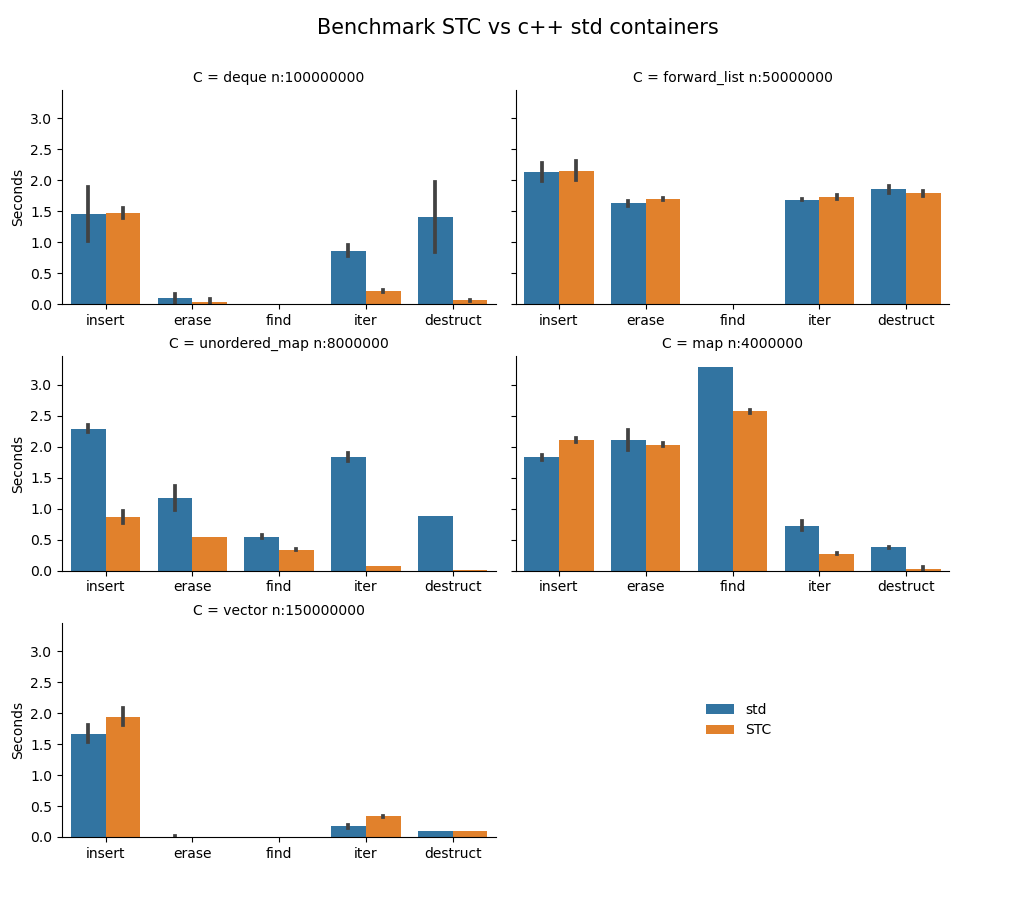
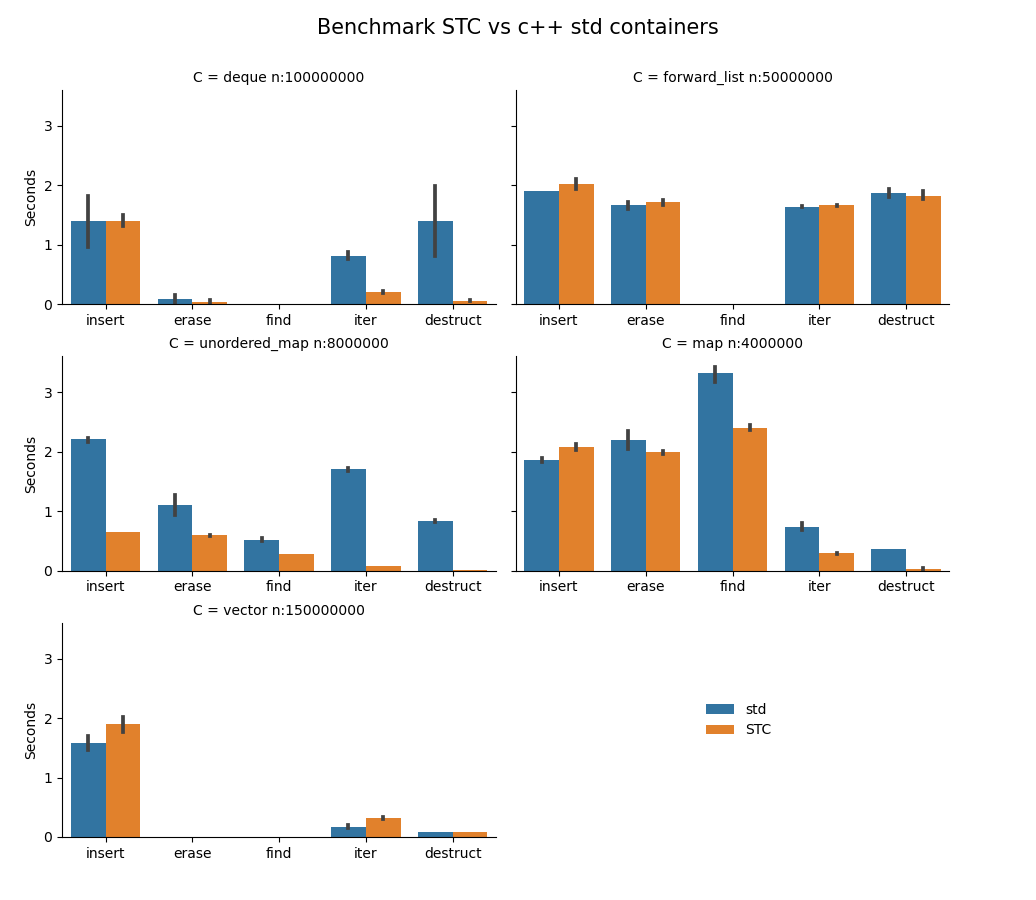
Replaced default hash for cmap.

diff --git a/stc/cmap.h b/stc/cmap.h
@@ -136,6 +136,9 @@ typedef struct {size_t idx; uint32_t hx;} chash_bucket_t;
 #define MAP_ONLY_cmap(...) __VA_ARGS__
 #define KEY_REF_cset(vp)   (vp)
 #define KEY_REF_cmap(vp)   (&(vp)->first)
+#ifndef CMAP_SIZE_T
+#define CMAP_SIZE_T uint32_t
+#endif
 
 #define _using_CHASH(X, C, Key, Mapped, keyEqualsRaw, keyHashRaw, mappedDel, mappedFromRaw, \
                         keyDel, keyFromRaw, keyToRaw, RawKey, mappedToRaw, RawMapped) \
@@ -143,6 +146,7 @@ typedef struct {size_t idx; uint32_t hx;} chash_bucket_t;
     typedef Mapped C##_##X##_mapped_t; \
     typedef RawKey C##_##X##_rawkey_t; \
     typedef RawMapped C##_##X##_rawmapped_t; \
+    typedef CMAP_SIZE_T C##_##X##_size_t; \
 \
     typedef SET_ONLY_##C( C##_##X##_key_t ) \
             MAP_ONLY_##C( struct {C##_##X##_key_t first; \
@@ -162,7 +166,7 @@ typedef struct {size_t idx; uint32_t hx;} chash_bucket_t;
     typedef struct { \
         C##_##X##_value_t* table; \
         uint8_t* _hashx; \
-        uint32_t size, bucket_count; \
+        C##_##X##_size_t size, bucket_count; \
         float min_load_factor; \
         float max_load_factor; \
     } C##_##X; \
@@ -300,12 +304,18 @@ typedef struct {size_t idx; uint32_t hx;} chash_bucket_t;
         C##_##X##_next(&pos); return pos; \
     } \
 \
-    STC_API uint32_t c_default_hash(const void *data, size_t len); \
-    STC_API uint32_t c_default_hash32(const void* data, size_t len); \
-\
     _implement_CHASH(X, C, Key, Mapped, keyEqualsRaw, keyHashRaw, mappedDel, keyDel, \
                         keyFromRaw, keyToRaw, RawKey, mappedFromRaw, mappedToRaw, RawMapped) \
     typedef C##_##X C##_##X##_t
+
+STC_API    uint64_t c_default_hash(const void *data, size_t len);
+STC_INLINE uint64_t c_default_hash32(const void* data, size_t len) {
+    return *(const uint32_t *)data * 2654435769u;
+}
+STC_INLINE uint64_t c_default_hash64(const void* data, size_t len) {
+    return *(const uint64_t *)data * 11400714819323198485ull;
+}
+#define cstr_hash_raw(p, ignored) c_default_hash(*(p), strlen(*(p)))
 
 /* -------------------------- IMPLEMENTATION ------------------------- */
 
@@ -443,17 +453,25 @@ enum {chash_HASH = 0x7f, chash_USED = 0x80};
             C##_##X##_reserve(self, k*1.2); \
     }
 
-STC_DEF uint32_t c_default_hash(const void *data, size_t len) {
-    const volatile uint16_t *key = (const uint16_t *) data;
-    uint64_t x = *key++ * 11400714819323198485llu;
-    while (len -= 2) x = (*key++ + x) * 11400714819323198485llu;
-    return (uint32_t) x;
-}
-STC_DEF uint32_t c_default_hash32(const void* data, size_t len) {
-    const volatile uint32_t *key = (const uint32_t *) data;
-    uint64_t x = *key++ * 2654435769ull;
-    while (len -= 4) x = (*key++ + x) * 2654435769ull;
-    return (uint32_t) x;
+STC_DEF uint64_t c_default_hash(const void *key, size_t len) {
+    const uint64_t m = 11400714819323198485ull; // 0xc6a4a7935bd1e995;
+    uint64_t k, h = m + len;
+    const unsigned char *p = (const uint8_t *) key,
+                        *end = p + (len & ~7ull);
+    for (; p != end; p += 8) {
+        memcpy(&k, p, 8);
+        h ^= k*m;
+    }
+    switch (len & 7) {
+        case 7: h ^= (uint64_t) p[6] << 48;
+        case 6: h ^= (uint64_t) p[5] << 40;
+        case 5: h ^= (uint64_t) p[4] << 32;
+        case 4: h ^= (uint64_t) p[3] << 24;
+        case 3: h ^= (uint64_t) p[2] << 16;
+        case 2: h ^= (uint64_t) p[1] << 8;
+        case 1: h ^= (uint64_t) p[0]; h *= m;
+    }
+    return h ^ (h >> 15);
 }
 
 #else

diff --git a/stc/csmap.h b/stc/csmap.h
@@ -127,15 +127,31 @@ int main(void) {
 #define CSMAP_SIZE_T uint32_t
 #endif
 
-#define _using_AATREE_types(X, C, Key, Mapped) \
+struct csmap_rep { size_t root, disp, head, size, cap; void* nodes[]; };
+#define _csmap_rep(self) c_container_of((self)->nodes, struct csmap_rep, nodes)
+
+#define _using_AATREE(X, C, Key, Mapped, keyCompareRaw, mappedDel, keyDel, \
+                         keyFromRaw, keyToRaw, RawKey, mappedFromRaw, mappedToRaw, RawMapped) \
     typedef Key C##_##X##_key_t; \
     typedef Mapped C##_##X##_mapped_t; \
+    typedef RawKey C##_##X##_rawkey_t; \
+    typedef RawMapped C##_##X##_rawmapped_t; \
     typedef CSMAP_SIZE_T C##_##X##_size_t; \
 \
     typedef SET_ONLY_##C( C##_##X##_key_t ) \
             MAP_ONLY_##C( struct {C##_##X##_key_t first; \
                                   C##_##X##_mapped_t second;} ) \
     C##_##X##_value_t; \
+\
+    typedef SET_ONLY_##C( C##_##X##_rawkey_t ) \
+            MAP_ONLY_##C( struct {C##_##X##_rawkey_t first; \
+                                  C##_##X##_rawmapped_t second;} ) \
+    C##_##X##_rawvalue_t; \
+\
+    typedef struct { \
+        C##_##X##_value_t *first; \
+        bool second; /* inserted */ \
+    } C##_##X##_result_t; \
 \
     typedef struct C##_##X##_node { \
         C##_##X##_size_t link[2]; \
@@ -144,34 +160,15 @@ int main(void) {
     } C##_##X##_node_t; \
 \
     typedef struct { \
+        C##_##X##_node_t* nodes; \
+    } C##_##X; \
+\
+    typedef struct { \
         C##_##X##_value_t *ref; \
         C##_##X##_node_t *_d; \
         int _top; \
         C##_##X##_size_t _tn, _st[48]; \
-    } C##_##X##_iter_t
-
-struct csmap_rep { size_t root, disp, head, size, cap; void* nodes[]; };
-#define _csmap_rep(self) c_container_of((self)->nodes, struct csmap_rep, nodes)
-
-#define _using_AATREE(X, C, Key, Mapped, keyCompareRaw, mappedDel, keyDel, \
-                         keyFromRaw, keyToRaw, RawKey, mappedFromRaw, mappedToRaw, RawMapped) \
-    _using_AATREE_types(X, C, Key, Mapped); \
-\
-    typedef struct { \
-        C##_##X##_node_t* nodes; \
-    } C##_##X; \
-\
-    typedef RawKey C##_##X##_rawkey_t; \
-    typedef RawMapped C##_##X##_rawmapped_t; \
-    typedef SET_ONLY_##C( C##_##X##_rawkey_t ) \
-            MAP_ONLY_##C( struct {C##_##X##_rawkey_t first; \
-                                  C##_##X##_rawmapped_t second;} ) \
-    C##_##X##_rawvalue_t; \
-\
-    typedef struct { \
-        C##_##X##_value_t *first; \
-        bool second; \
-    } C##_##X##_result_t; \
+    } C##_##X##_iter_t; \
 \
     STC_API C##_##X C##_##X##_init(void); \
     STC_API C##_##X C##_##X##_clone(C##_##X tree); \

diff --git a/stc/cstr.h b/stc/cstr.h
@@ -218,25 +218,12 @@ cstr_iends_with(cstr_t s, const char* needle) {
 }
 
 /* cvec/cmap API functions: */
-
-STC_INLINE uint32_t
-c_string_hash(const char* str) {
-    uint32_t hash = 5381, c; /* djb2 */
-    const uint8_t* p = (const uint8_t*) str;
-    while ((c = *p++)) hash = ((hash << 5) + hash) ^ c;
-    return hash;
-}
-STC_INLINE
-uint32_t cstr_hash_raw(const char* const* p, size_t none) {
-    return c_string_hash(*p);
-}
-
 #define  cstr_to_raw(x)          ((x)->str)
 #define  cstr_compare_raw(x, y)  strcmp(*(x), *(y))
 #define  cstr_equals_raw(x, y)   (strcmp(*(x), *(y)) == 0)
 #define  cstr_compare_ref(x, y)  strcmp((x)->str, (y)->str)
 #define  cstr_equals_ref(x, y)   (strcmp((x)->str, (y)->str) == 0)
-#define  cstr_hash_ref(x, none)  c_string_hash((x)->str)
+#define  cstr_hash_ref(x, none)  c_default_hash((x)->str, cstr_size(x)))
 
 /* -------------------------- IMPLEMENTATION ------------------------- */
 
@@ -270,7 +257,7 @@ STC_DEF cstr_t
 cstr_from_n(const char* str, size_t len) {
     if (len == 0) return cstr_inits;
     struct cstr_rep* rep = (struct cstr_rep*) c_malloc(_cstr_opt_mem(len));
-    cstr_t s = {strncpy(rep->str, str, len)};
+    cstr_t s = {(char *) memcpy(rep->str, str, len)};
     s.str[rep->size = len] = '\0';
     rep->cap = _cstr_opt_cap(len);
     return s;
@@ -332,7 +319,7 @@ cstr_append_n(cstr_t* self, const char* str, size_t len) {
         if (newlen > _cstr_rep(self)->cap) {
             /* handle self append */
             size_t off = (size_t) (str - self->str);
-            cstr_reserve(self, newlen * 3 / 2);
+            cstr_reserve(self, newlen*3/2);
             if (off <= oldlen) str = self->str + off;
         }
         memcpy(&self->str[oldlen], str, len);
@@ -346,7 +333,7 @@ STC_INLINE void _cstr_internal_move(cstr_t* self, size_t pos1, size_t pos2) {
         return;
     size_t len = _cstr_rep(self)->size, newlen = len + pos2 - pos1;
     if (newlen > _cstr_rep(self)->cap)
-        cstr_reserve(self, newlen * 3 / 2);
+        cstr_reserve(self, newlen*3/2);
     memmove(&self->str[pos2], &self->str[pos1], len - pos1);
     self->str[_cstr_rep(self)->size = newlen] = '\0';
 }
@@ -377,7 +364,7 @@ cstr_getdelim(cstr_t *self, int delim, FILE *fp) {
         return false;
     for (;;) {
         if (pos == cap)
-            cap = cstr_reserve(self, cap * 3 / 2 + 34);
+            cap = cstr_reserve(self, cap*3/2 + 34);
         if (c == delim || c == EOF) {
             self->str[_cstr_rep(self)->size = pos] = '\0';
             return true;

diff --git a/benchmarks/cmap_benchmark2.cpp b/benchmarks/cmap_benchmark2.cpp
@@ -15,13 +15,6 @@
 enum {N1 = 4000000, S1 = 1, MaxLoadFactor100 = 80};
 uint64_t seed = time(NULL);
 
-static inline uint32_t hash32(const void* data, size_t len) {
-    return *(const uint32_t *)data * 2654435769u;
-}
-static inline uint32_t hash64(const void* data, size_t len) {
-    uint64_t x = *(const uint64_t *)data * 11400714819323198485ull;
-    return x ^ (x >> 24);
-}
 template <class K, class V> using umap = std::unordered_map<K, V>;
 template <class K, class V> using bmap = ska::bytell_hash_map<K, V>;
 template <class K, class V> using fmap = ska::flat_hash_map<K, V>;
@@ -41,8 +34,8 @@ DEFMAP(map_i, <int, int>);
 DEFMAP(map_x, <uint64_t, uint64_t>);
 DEFMAP(map_s, <std::string, std::string>);
 
-using_cmap(i, int, int, c_default_equals, hash32);
-using_cmap(x, uint64_t, uint64_t, c_default_equals, hash64);
+using_cmap(i, int, int, c_default_equals, c_default_hash32);
+using_cmap(x, uint64_t, uint64_t, c_default_equals, c_default_hash64);
 using_cmap_strkey(s, cstr, cstr_del, cstr_clone);
 
 PICOBENCH_SUITE("Map1");

diff --git a/examples/advanced.c b/examples/advanced.c
@@ -20,8 +20,8 @@ typedef struct VikingRaw {
     const char* country;
 } VikingRaw;
 
-uint32_t vikingraw_hash(const VikingRaw* raw, size_t ignore) {
-    uint32_t hash = c_string_hash(raw->name) ^ (c_string_hash(raw->country) << 3);
+uint64_t vikingraw_hash(const VikingRaw* raw, size_t ignore) {
+    uint64_t hash = c_default_hash(raw->name, strlen(raw->name)) ^ (c_default_hash(raw->country, strlen(raw->country)) >> 15);
     return hash;
 }
 static inline int vikingraw_equals(const VikingRaw* rx, const VikingRaw* ry) {

diff --git a/benchmarks/cmap_benchmark.cpp b/benchmarks/cmap_benchmark.cpp
@@ -16,11 +16,7 @@ uint64_t seed = 1, mask1 = 0xffffffff;
 
 static float secs(Range s) { return (float)(s.t2 - s.t1) / CLOCKS_PER_SEC; }
 
-static inline uint32_t hash64(const void* data, size_t len) {
-    uint64_t x = *(const uint64_t *)data * 11400714819323198485ull;
-    return x ^ (x >> 32);
-}
-using_cmap(x, size_t, size_t, c_default_equals, hash64);
+using_cmap(x, size_t, size_t, c_default_equals, c_default_hash64);
 
 #ifdef __cplusplus
 Sample test_std_unordered_map() {

diff --git a/README.md b/README.md
@@ -204,10 +204,12 @@ The containers are memory efficent, i.e. they occupy as little memory as practic
 
 FAQ
 ---
-- **Q**: Why is **cmap** so fast?
-- **A**: Many reasons. It uses open addressing which holds all buckets in one block of memory. It uses a separate array for precomputed hashes/used buckets - only one byte per bucket. It avoids modulus operations and erases elements without leaving tombstones. Modern architechtures favors simple code and cached memory access, so linear probing is actually as fast or faster than the more advanced Robin Hood and Hopscotch hashing schemes, and they require tombstones. **cmap** does not rely on wasteful power-of-two array sizes, it actually expands only by 1.5x when required.
+**Q**: *How did you make **cmap** so fast?*
 
-- **Q**: How come **cvec_str_emplace_back()** can take a `const char *` argument, when its value type `cstr` cannot be directly assigned from a `const char *`?
-- **A**: STC containers simulates automatic type convertion found in c++. All containers can take an optional "rawvalue" type as template parameter in the **using_**-declaration, along with back and forth convertion methods to the container value type. By default, rawvalue is equal to value. Various **emplace()**, **cmap_put()** and lookup methods accepts the rawvalue type, which is  convenient e.g. for strings.
+**A**: It uses open addressing which holds all buckets in one block of memory. It has a separate array for precomputed hashes/used buckets - one byte per bucket. Further if avoids modulus operations and erases elements without leaving tombstones. Modern architechtures favors simple code and cached memory access, so linear probing is actually as fast or faster than the more advanced Robin Hood and Hopscotch hashing schemes, which also requires tombstones. **cmap** does not rely on wasteful power-of-two array sizes, it actually expands only by 1.5x when required.
+
+**Q**: *How come **cvec_str_emplace_back()** can take a `const char *` argument, when its value type `cstr` cannot be directly assigned from a `const char *`*?
+
+**A**: STC containers simulates automatic type convertion found in c++. All containers can take an optional "rawvalue" type as template parameter in the **using_**-declaration, along with back and forth convertion methods to the container value type. By default, rawvalue is equal to value. Various **emplace()**, **cmap_put()** and lookup methods accepts the rawvalue type, which is  convenient e.g. for strings.
 
 It is also useful for map insertions, because values are only conditionally inserted - the **emplace()** method construct a cstr object from a rawvalue only when needed. **using_cvec_str()** declares `cvec_str` container type with predefined `cstr` value and `const char *` rawvalue, along with convertion methods.
